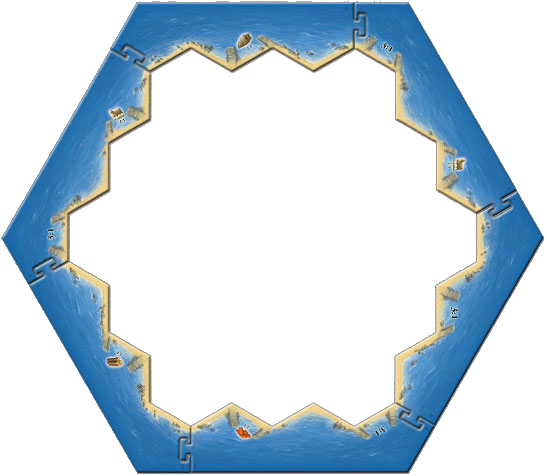
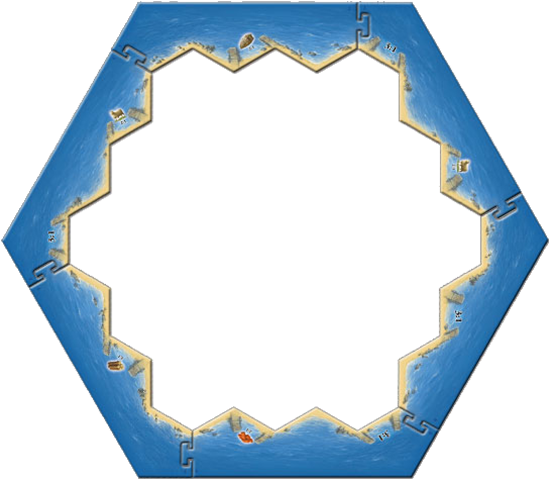
Tegels hard coded verplaatst, GUI tekenen bijna gelukt

diff --git a/KolonistenVanCatanV3/src/domein/Bord.java b/KolonistenVanCatanV3/src/domein/Bord.java
@@ -57,7 +57,7 @@ public final class Bord implements Serializable {
         boolean exists;
 
         for (int ring = 1; ring <= 3; ring++) {
-            voorgaandeHexagon = new Hexagon(centerBord, hexRad);
+            voorgaandeHexagon = new Hexagon(new Coordinate(542, 302), hexRad);
             exists = false;
             for (Hexagon h : hexagons) {
                 if (h.getCenterPositie() == voorgaandeHexagon.getCenterPositie()) {
@@ -238,16 +238,18 @@ public final class Bord implements Serializable {
     }
 
     public void setTutorialbord() {
-        Hexagon h = new Hexagon(new Coordinate(327.5, 334), hexRad);
+        Hexagon h = new Hexagon(new Coordinate(570.5, 336), hexRad);
+        Hexagon h1 = new Hexagon(new Coordinate(379,304),hexRad);
         //tegels.add(new Woestijntegel(hexagons.get(0)));
         tegels.add(new Woestijntegel(h));
         tegels.add(new Landtegel(3, Grondstof.HOUT, hexagons.get(1)));
         tegels.add(new Landtegel(6, Grondstof.ERTS, hexagons.get(2)));
         tegels.add(new Landtegel(5, Grondstof.GRAAN, hexagons.get(3)));
         tegels.add(new Landtegel(4, Grondstof.ERTS, hexagons.get(4)));
-        tegels.add(new Landtegel(9, Grondstof.BAKSTEEN, hexagons.get(5)));
+        tegels.add(new Landtegel(9, Grondstof.BAKSTEEN, hexagons.get(5))); //X
         tegels.add(new Landtegel(11, Grondstof.ERTS, hexagons.get(6)));
-        tegels.add(new Landtegel(11, Grondstof.BAKSTEEN, hexagons.get(7)));
+        //tegels.add(new Landtegel(11, Grondstof.BAKSTEEN, hexagons.get(7))); //X VERZETTEN, KOMT OP CENTER?
+        tegels.add(new Landtegel(11, Grondstof.BAKSTEEN, h1));
         tegels.add(new Landtegel(12, Grondstof.WOL, hexagons.get(8)));
         tegels.add(new Landtegel(9, Grondstof.GRAAN, hexagons.get(9)));
         tegels.add(new Landtegel(10, Grondstof.HOUT, hexagons.get(10)));
@@ -257,10 +259,10 @@ public final class Bord implements Serializable {
         tegels.add(new Landtegel(2, Grondstof.GRAAN, hexagons.get(14)));
         tegels.add(new Landtegel(5, Grondstof.HOUT, hexagons.get(15)));
         tegels.add(new Landtegel(10, Grondstof.GRAAN, hexagons.get(16)));
-        tegels.add(new Landtegel(8, Grondstof.BAKSTEEN, hexagons.get(17)));
+        tegels.add(new Landtegel(8, Grondstof.BAKSTEEN, hexagons.get(17))); //X BOVENSTE WOL?
         tegels.add(new Landtegel(4, Grondstof.WOL, hexagons.get(18)));
         tegels.add(new Zeetegel(hexagons.get(19)));
-        tegels.add(new Haventegel(1, Grondstof.BAKSTEEN, 2, hexagons.get(20)));
+        tegels.add(new Haventegel(1, Grondstof.BAKSTEEN, 2, hexagons.get(20))); //X KOMT ERGENS ANDERS TE STAAN -> KWIJT
         tegels.add(new Zeetegel(hexagons.get(21)));
         tegels.add(new Haventegel(6, null, 3, hexagons.get(22)));
         tegels.add(new Zeetegel(hexagons.get(23)));
@@ -278,6 +280,7 @@ public final class Bord implements Serializable {
         tegels.add(new Zeetegel(hexagons.get(35)));
         tegels.add(new Haventegel(1, Grondstof.HOUT, 2, hexagons.get(36)));
         tegels.add(new Zeetegel(hexagons.get(37)));
+        
         for (Tegel t : tegels)
         {
             Coordinate hoek1 = t.getPlaats().getVertices()[0];

diff --git a/KolonistenVanCatanV3/src/kolonistenvancatan/KVCSpelGUI.java b/KolonistenVanCatanV3/src/kolonistenvancatan/KVCSpelGUI.java
@@ -38,6 +38,7 @@ import java.io.IOException;
 import java.rmi.RemoteException;
 import java.util.logging.Level;
 import java.util.logging.Logger;
+import javafx.fxml.FXML;
 import javafx.scene.image.Image;
 import javafx.scene.shape.Circle;
 import javafx.scene.shape.Rectangle;
@@ -73,6 +74,8 @@ public class KVCSpelGUI extends Application {
         
          // Graphics
          gc = catan.getGraphicsContext2D();
+         catan.setHeight(catan.getHeight() + 400);
+         catan.setWidth(catan.getWidth() + 400);
          Image imageTegel = null;
          Image imageNummer = null;
          //spel.getBord().getAlleTegels();
@@ -122,13 +125,15 @@ public class KVCSpelGUI extends Application {
          imageTegel = new Image("file:src/Images/Tegels/Haven_Hout_" + ht.getHavezijde() + ".png");
          break;
          case BAKSTEEN:
-         imageTegel = new Image("file:src/Images/Tegels/Haven_Wol_" + ht.getHavezijde() + ".png");
+         //imageTegel = new Image("file:src/Images/Tegels/Haven_Wol_" + ht.getHavezijde() + ".png");
+             imageTegel = new Image("file:src/Images/Tegels/Haven_Backsteen_" + ht.getHavezijde() + ".png");
          break;
          case GRAAN:
          imageTegel = new Image("file:src/Images/Tegels/Haven_Graan_" + ht.getHavezijde() + ".png");
          break;
          case WOL:
-         imageTegel = new Image("file:src/Images/Tegels/Haven_Backsteen_" + ht.getHavezijde() + ".png");
+         //imageTegel = new Image("file:src/Images/Tegels/Haven_Backsteen_" + ht.getHavezijde() + ".png");
+             imageTegel = new Image("file:src/Images/Tegels/Haven_Wol_" + ht.getHavezijde() + ".png");
          break;
          case ERTS:
          imageTegel = new Image("file:src/Images/Tegels/Haven_Erts_" + ht.getHavezijde() + ".png");
@@ -142,7 +147,7 @@ public class KVCSpelGUI extends Application {
 
          } else if (spel.getBord().isOptieRand()) {
          imageTegel = new Image("file:src/Images/Tegels/Rand.png");
-         gc.drawImage(imageTegel, 0, 0);
+         gc.drawImage(imageTegel, 297, 98);
          }
          }
     }

diff --git a/KolonistenVanCatanV3/src/kolonistenvancatan/KVCLobbyGUI.java b/KolonistenVanCatanV3/src/kolonistenvancatan/KVCLobbyGUI.java
@@ -1,3 +1,4 @@
+
 package kolonistenvancatan;
 
 /*
